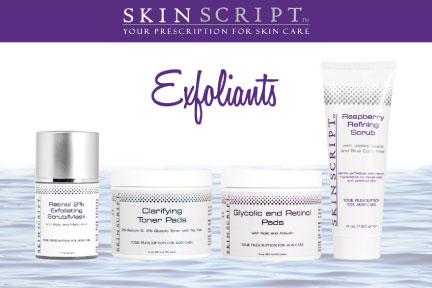
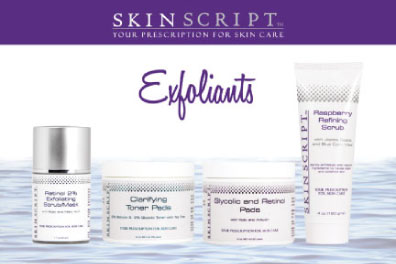
align product images

diff --git a/src/components/Main.jsx b/src/components/Main.jsx
@@ -424,29 +424,31 @@ export default class Main extends Component {
               <hr className="hr2" />
             </Col>
           </Row>
+
           <Row>
-            <Col xs={12} sm={12} md={6} lg={6} xl={6}>
+            <Col xs={12} md={12} lg={6} xl={6} className="prodImage">
               <Image
                 src="assets/img/SS_Moisturizers.jpg"
                 alt="Skin Script Moisturizers"
               />
             </Col>
-            <Col xs={12} sm={12} md={6} lg={6} xl={6}>
+            <Col xs={12} md={6} lg={6} xl={6} className="prodImage">
               <Image
                 src="assets/img/SS_Cleansers.jpg"
                 alt="Skin Script Cleansers"
               />
             </Col>
           </Row>
+
           <br />
           <Row>
-            <Col xs={12} sm={12} md={6} lg={6} xl={6}>
+            <Col xs={12} md={6} lg={6} xl={6} className="prodImage">
               <Image
                 src="assets/img/SS_Exfoliants.jpg"
                 alt="Skin Script Exfoliants"
               />
             </Col>
-            <Col xs={12} sm={12} md={6} lg={6} xl={6}>
+            <Col xs={12} md={6} lg={6} xl={6} className="prodImage">
               <Image
                 src="assets/img/HH_Products_2020.jpg"
                 alt="Hale &amp; Hush Products 2020"
@@ -454,6 +456,7 @@ export default class Main extends Component {
             </Col>
           </Row>
         </Container>
+
         <a className="anchor" id="about" />
         <Container className="about">
           <hr className="hr-style" />

diff --git a/src/components/Main.css b/src/components/Main.css
@@ -153,3 +153,11 @@ p {
   border-radius: 50%;
   float: left;
 }
+
+.prodImage {
+  height: 100%;
+  display: flex;
+  /* flex-direction: column; */
+  justify-content: center;
+  text-align: center;
+}
